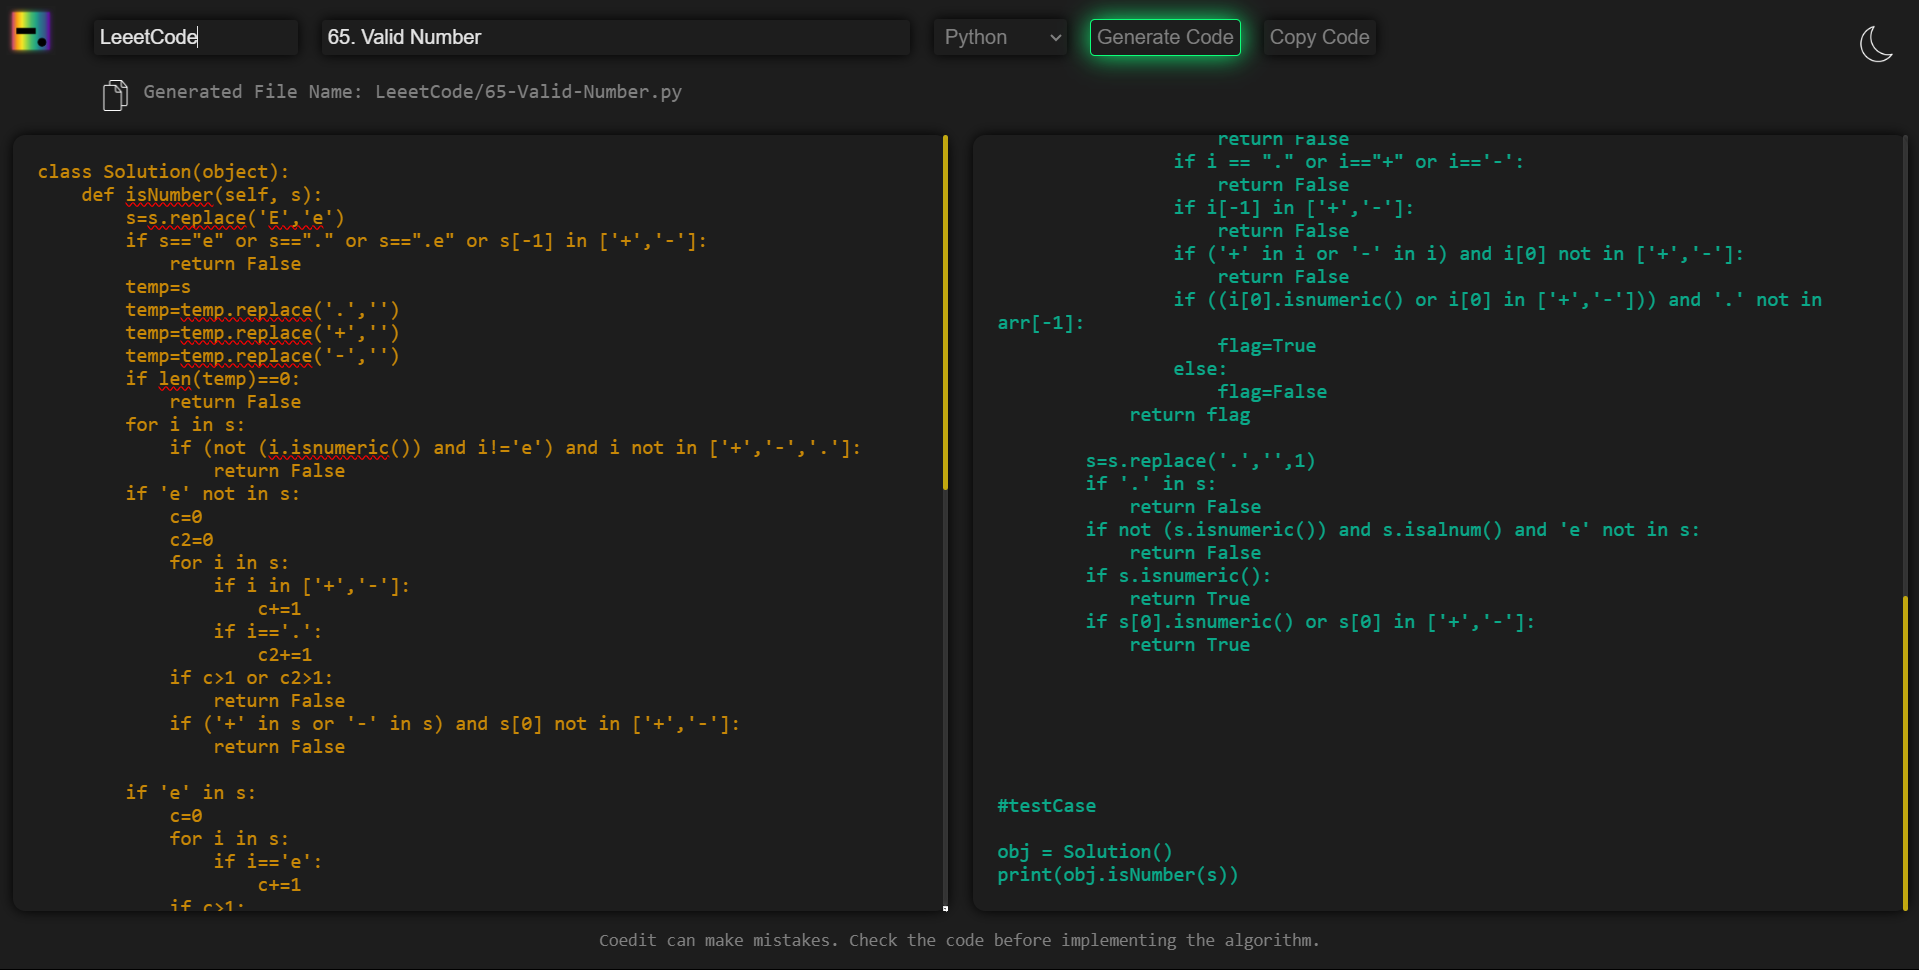
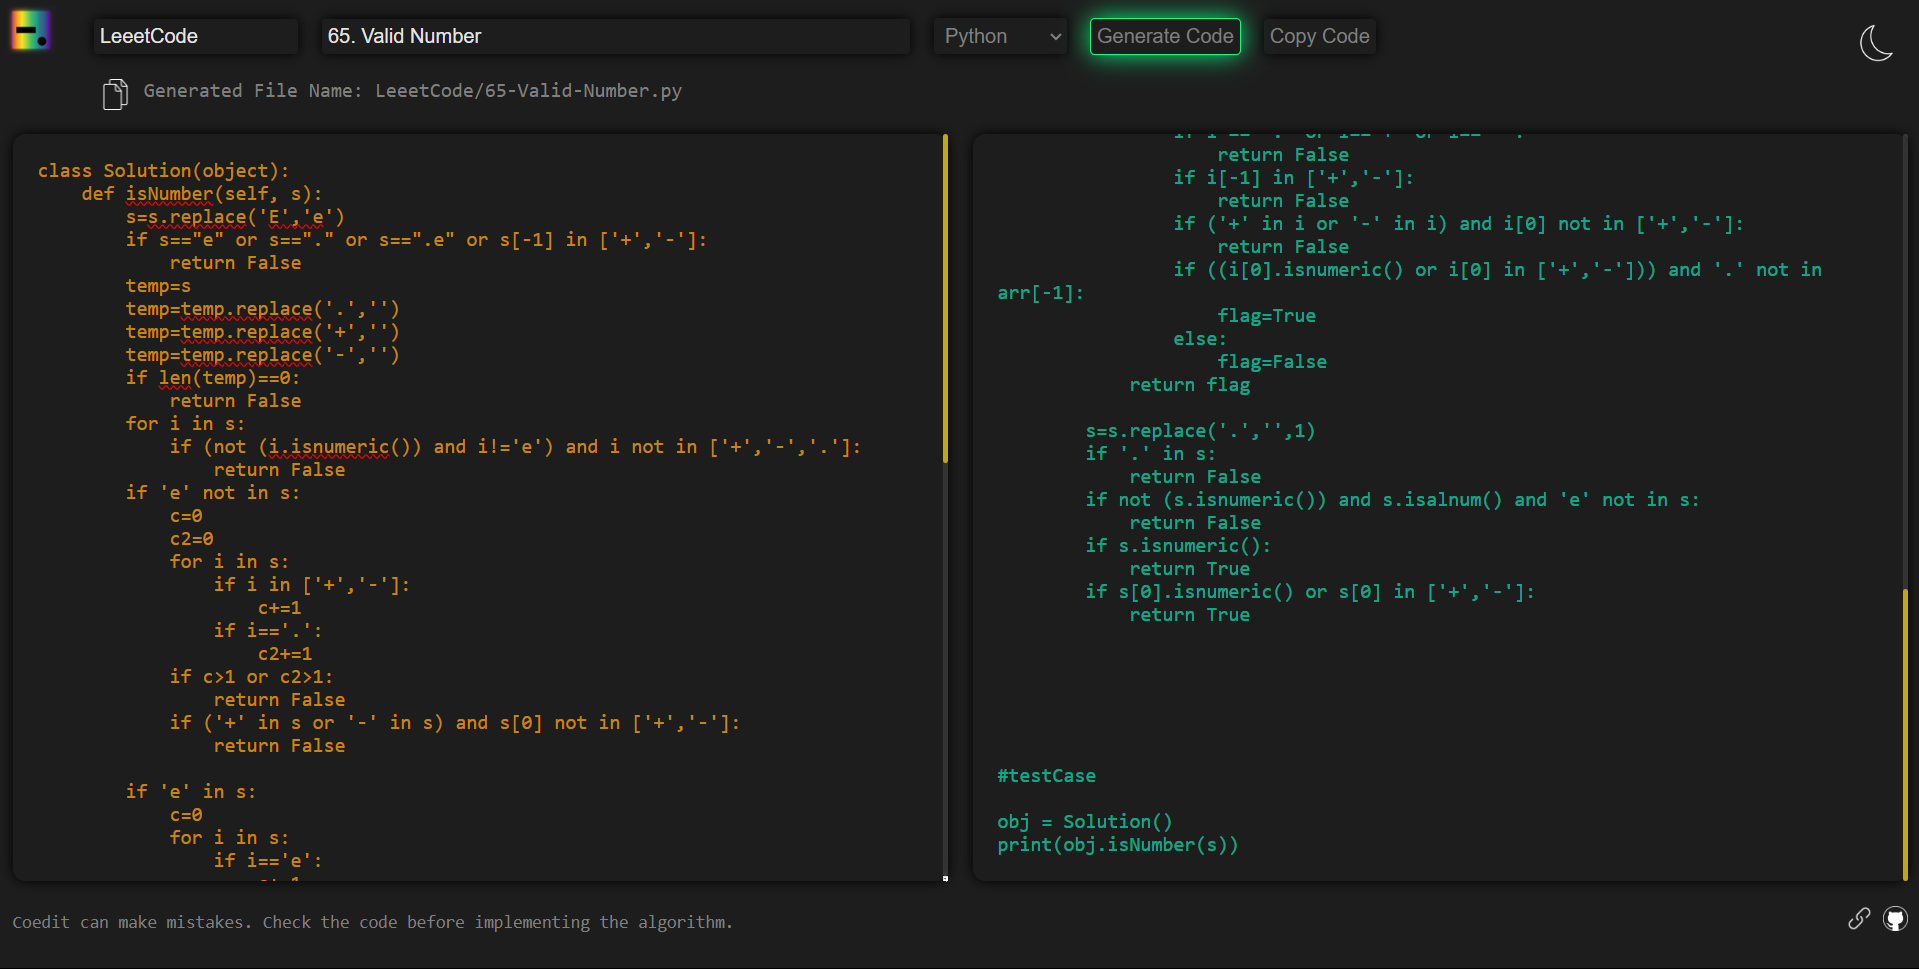
added coedit

diff --git a/index.html b/index.html
@@ -8,6 +8,7 @@
     <link rel="stylesheet" href="resources/style.css">
     <link rel="shortcut icon" href="resources/Nomenclature.png" type="image/x-icon">
 </head>
+
 <body id="body">
     <nav>
         <a href=""><img src="resources/Nomenclature.png" alt="logo" class="logo" id="logo"></a>
@@ -26,13 +27,25 @@
             <button type="button" id="copy" class="btn" onclick="copyCode()">Copy Code</button>
         </form>
     </nav>
-    <button type="button" id="theme" onclick="light()"><img src="https://static.thenounproject.com/png/4066359-200.png" class="moon"></button>
-    <div class="container"><button type="button" id="submit" onclick="fileNameFunction()"><img src="https://cdn.icon-icons.com/icons2/629/PNG/512/copy-two-paper-sheets-stroke-symbol-of-interface_icon-icons.com_57868.png" alt="" class="copy" id="copy_image"></button><div id="result">Generated File Name: </div></div>
+    <button type="button" id="theme" onclick="light()"><img src="https://static.thenounproject.com/png/4066359-200.png"
+            class="moon"></button>
+    <div class="container"><button type="button" id="submit" onclick="fileNameFunction()"><img
+                src="https://cdn.icon-icons.com/icons2/629/PNG/512/copy-two-paper-sheets-stroke-symbol-of-interface_icon-icons.com_57868.png"
+                alt="" class="copy" id="copy_image"></button>
+        <div id="result">Generated File Name: </div>
+    </div>
     <div class="code">
         <textarea id="input_code" class="codes" placeholder="Input Code"></textarea>
-        <textarea  id="output_code" class="codes" placeholder="Output Code" readonly></textarea>
+        <textarea id="output_code" class="codes" placeholder="Output Code" readonly></textarea>
     </div>
-    <p class="mistakes">Coedit can make mistakes. Check the code before implementing the algorithm.</p>
+    <footer>
+        <p class="mistakes">Coedit can make mistakes. Check the code before implementing the algorithm.</p>
+        <div class="links">
+            <button class="footer_logo" onclick="copylink()" id="link"><img src="https://icons.veryicon.com/png/o/miscellaneous/foundation-icon-5/link-86.png" alt=""></button>
+            <a href="https://github.com/multiverseweb/Coedit" class="footer_logo"><img src="https://pngimg.com/d/github_PNG83.png" alt=""></a>
+        </div>
+    </footer>
     <script src="resources/script.js"></script>
 </body>
+
 </html>

diff --git a/resources/style.css b/resources/style.css
@@ -3,7 +3,7 @@
     padding: 0;
 }
 body{
-    overflow: hidden;
+    overflow-x: hidden;
     font-family: consolas;
     background-color: rgba(0, 0, 0, 0.888);
     transition-duration: 0.5s;
@@ -82,7 +82,7 @@ nav{
 .codes{
     font-size: 1rem;
     resize: horizontal;
-    min-height: 80vh;
+    min-height: 77vh;
     margin: 10px;
     background-color: #00000000;
     border: none;
@@ -151,7 +151,10 @@ option{
         width: calc(100vw - 20px)
     }
     .codes{
-        min-height: 30vh;
+        min-height: 25vh;
+    }
+    footer{
+        flex-direction: column;
     }
 }
 .container{
@@ -189,4 +192,22 @@ option{
     color:grey;
     font-size: 14px;
     margin-top: 5px;
+}
+
+footer{
+    display: flex;
+    justify-content: space-between;
+    padding: 10px;
+}
+.footer_logo{
+    border: none;
+    background-color: #00000000;
+}
+.footer_logo img{
+    height: 20px;
+    filter: invert(1);
+}
+#link{
+    color: white;
+    font-size: 20px;
 }

diff --git a/resources/script.js b/resources/script.js
@@ -201,3 +201,7 @@ function dark() {
     const button = document.getElementById('theme');
     button.onclick = light;
 }
+function copylink() {
+    navigator.clipboard.writeText("https://coedittool.netlify.app/");
+    document.getElementById("link").innerHTML = "✓";
+}
